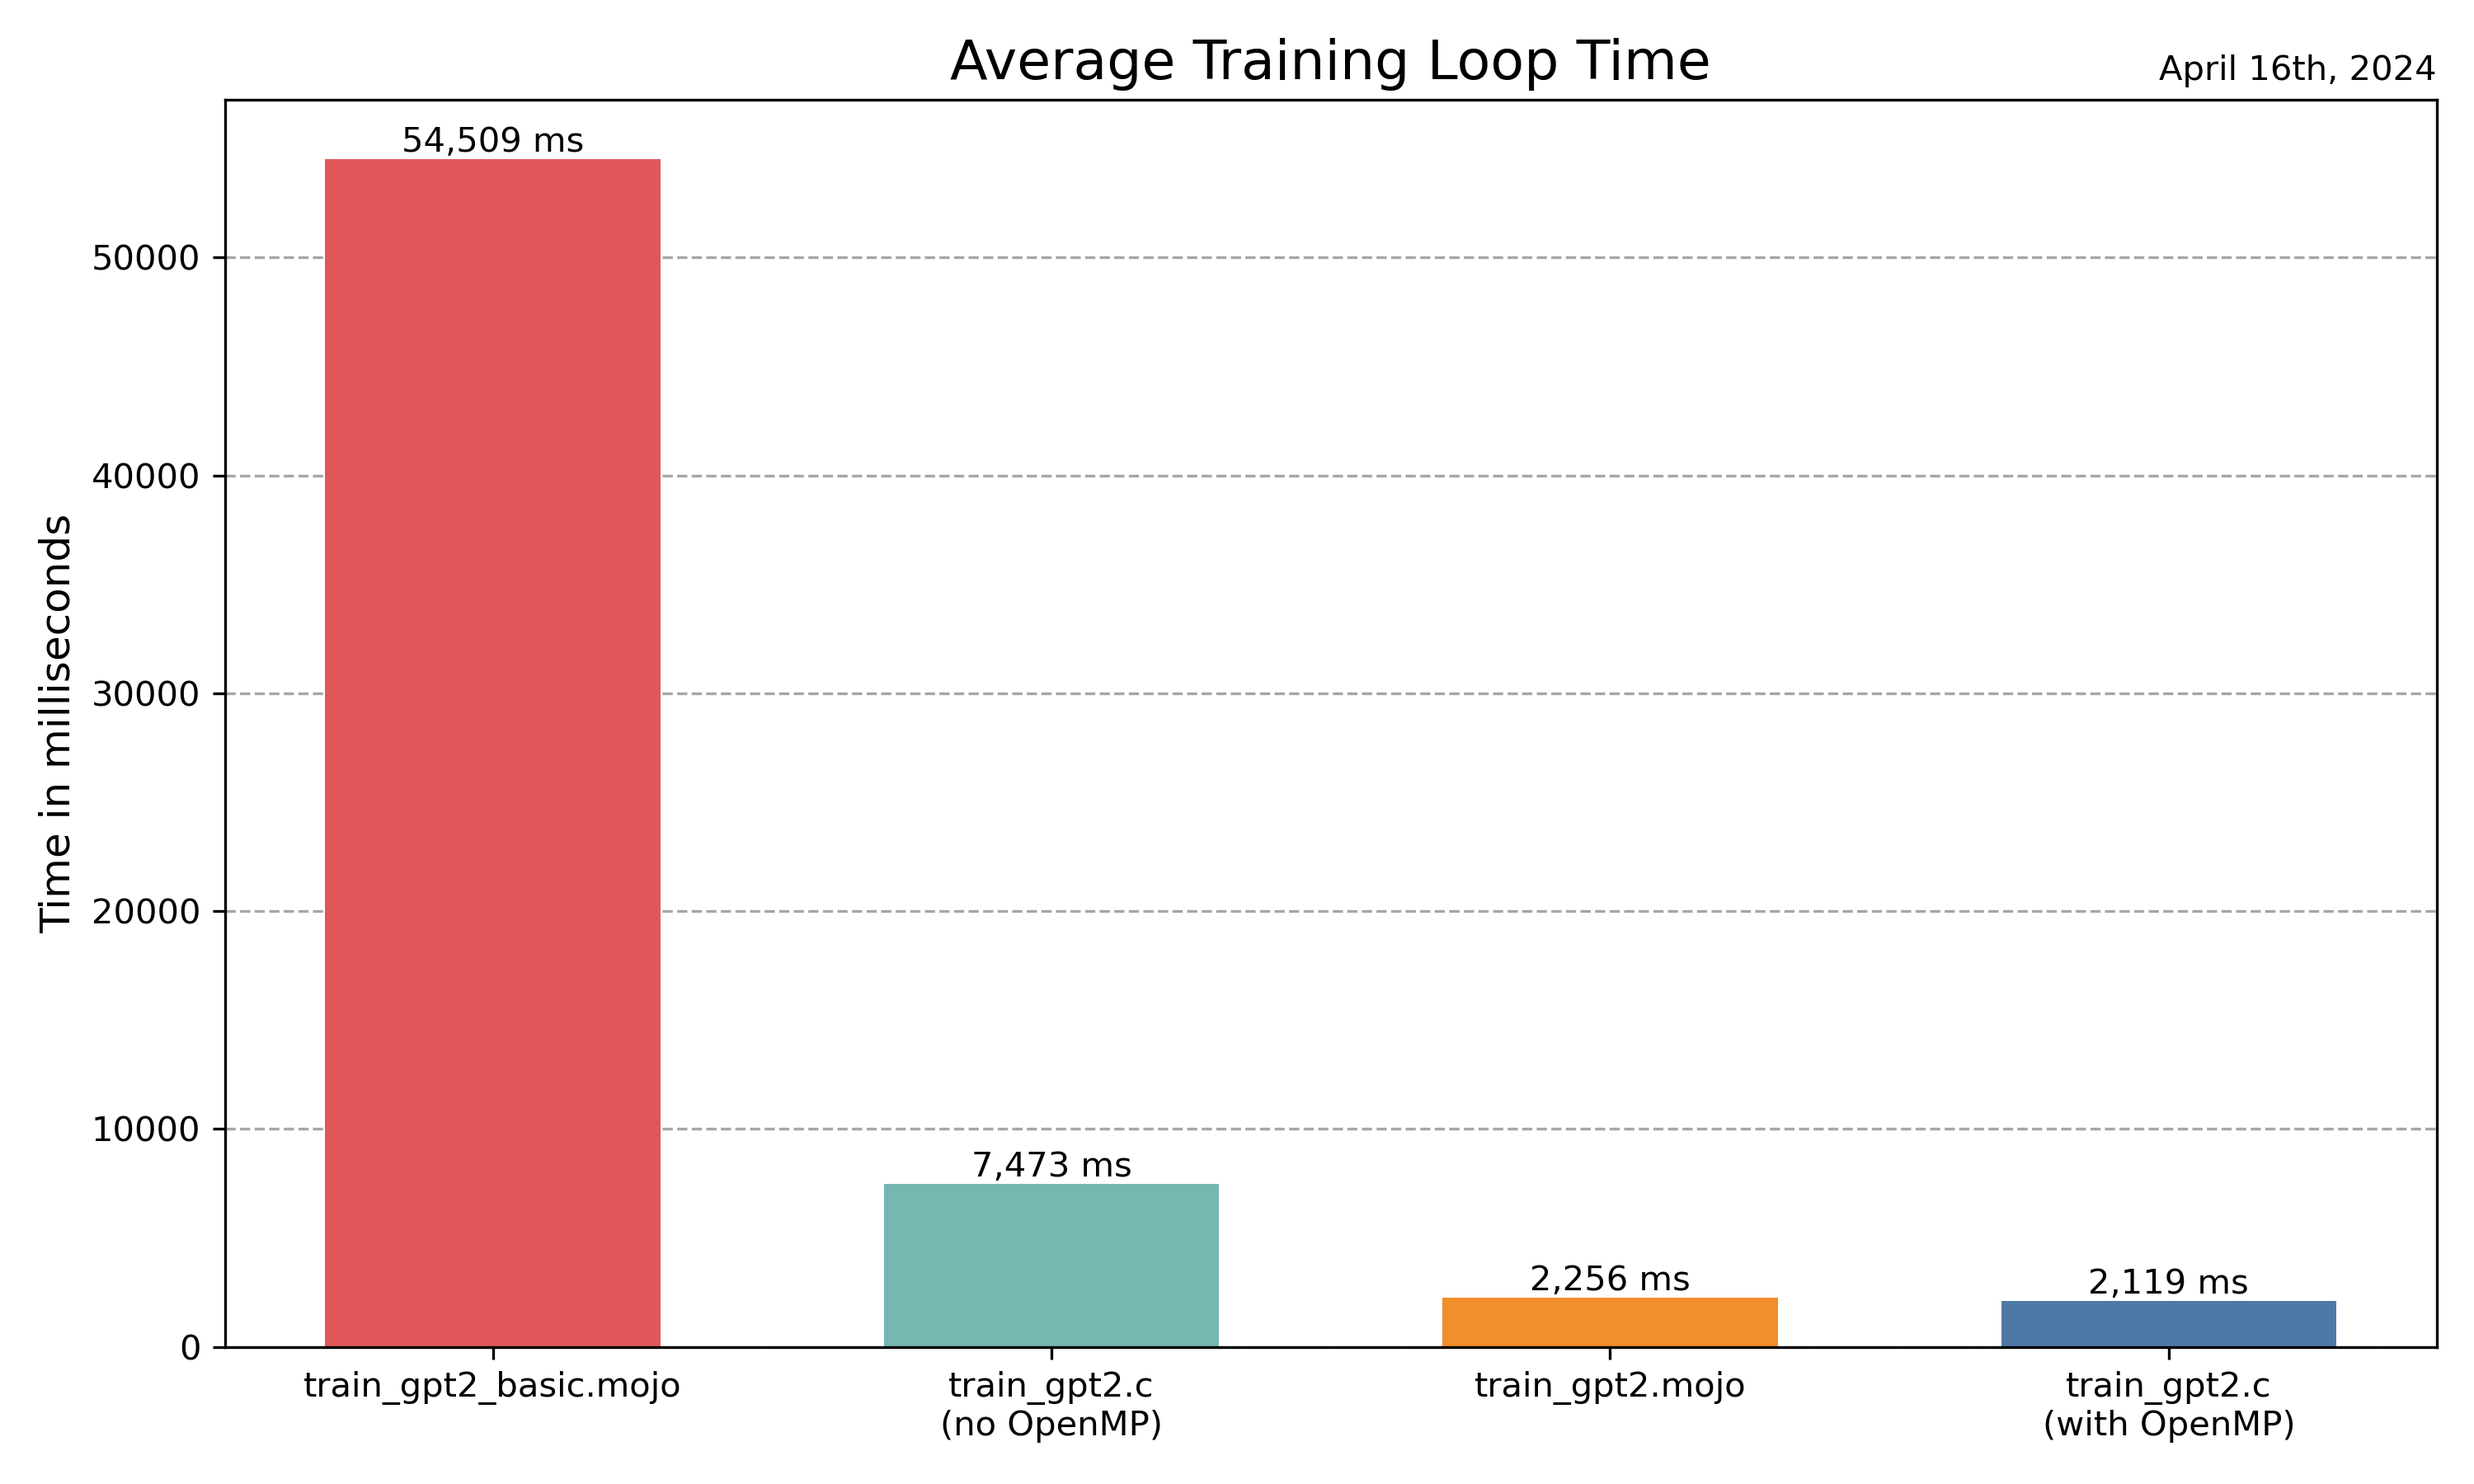
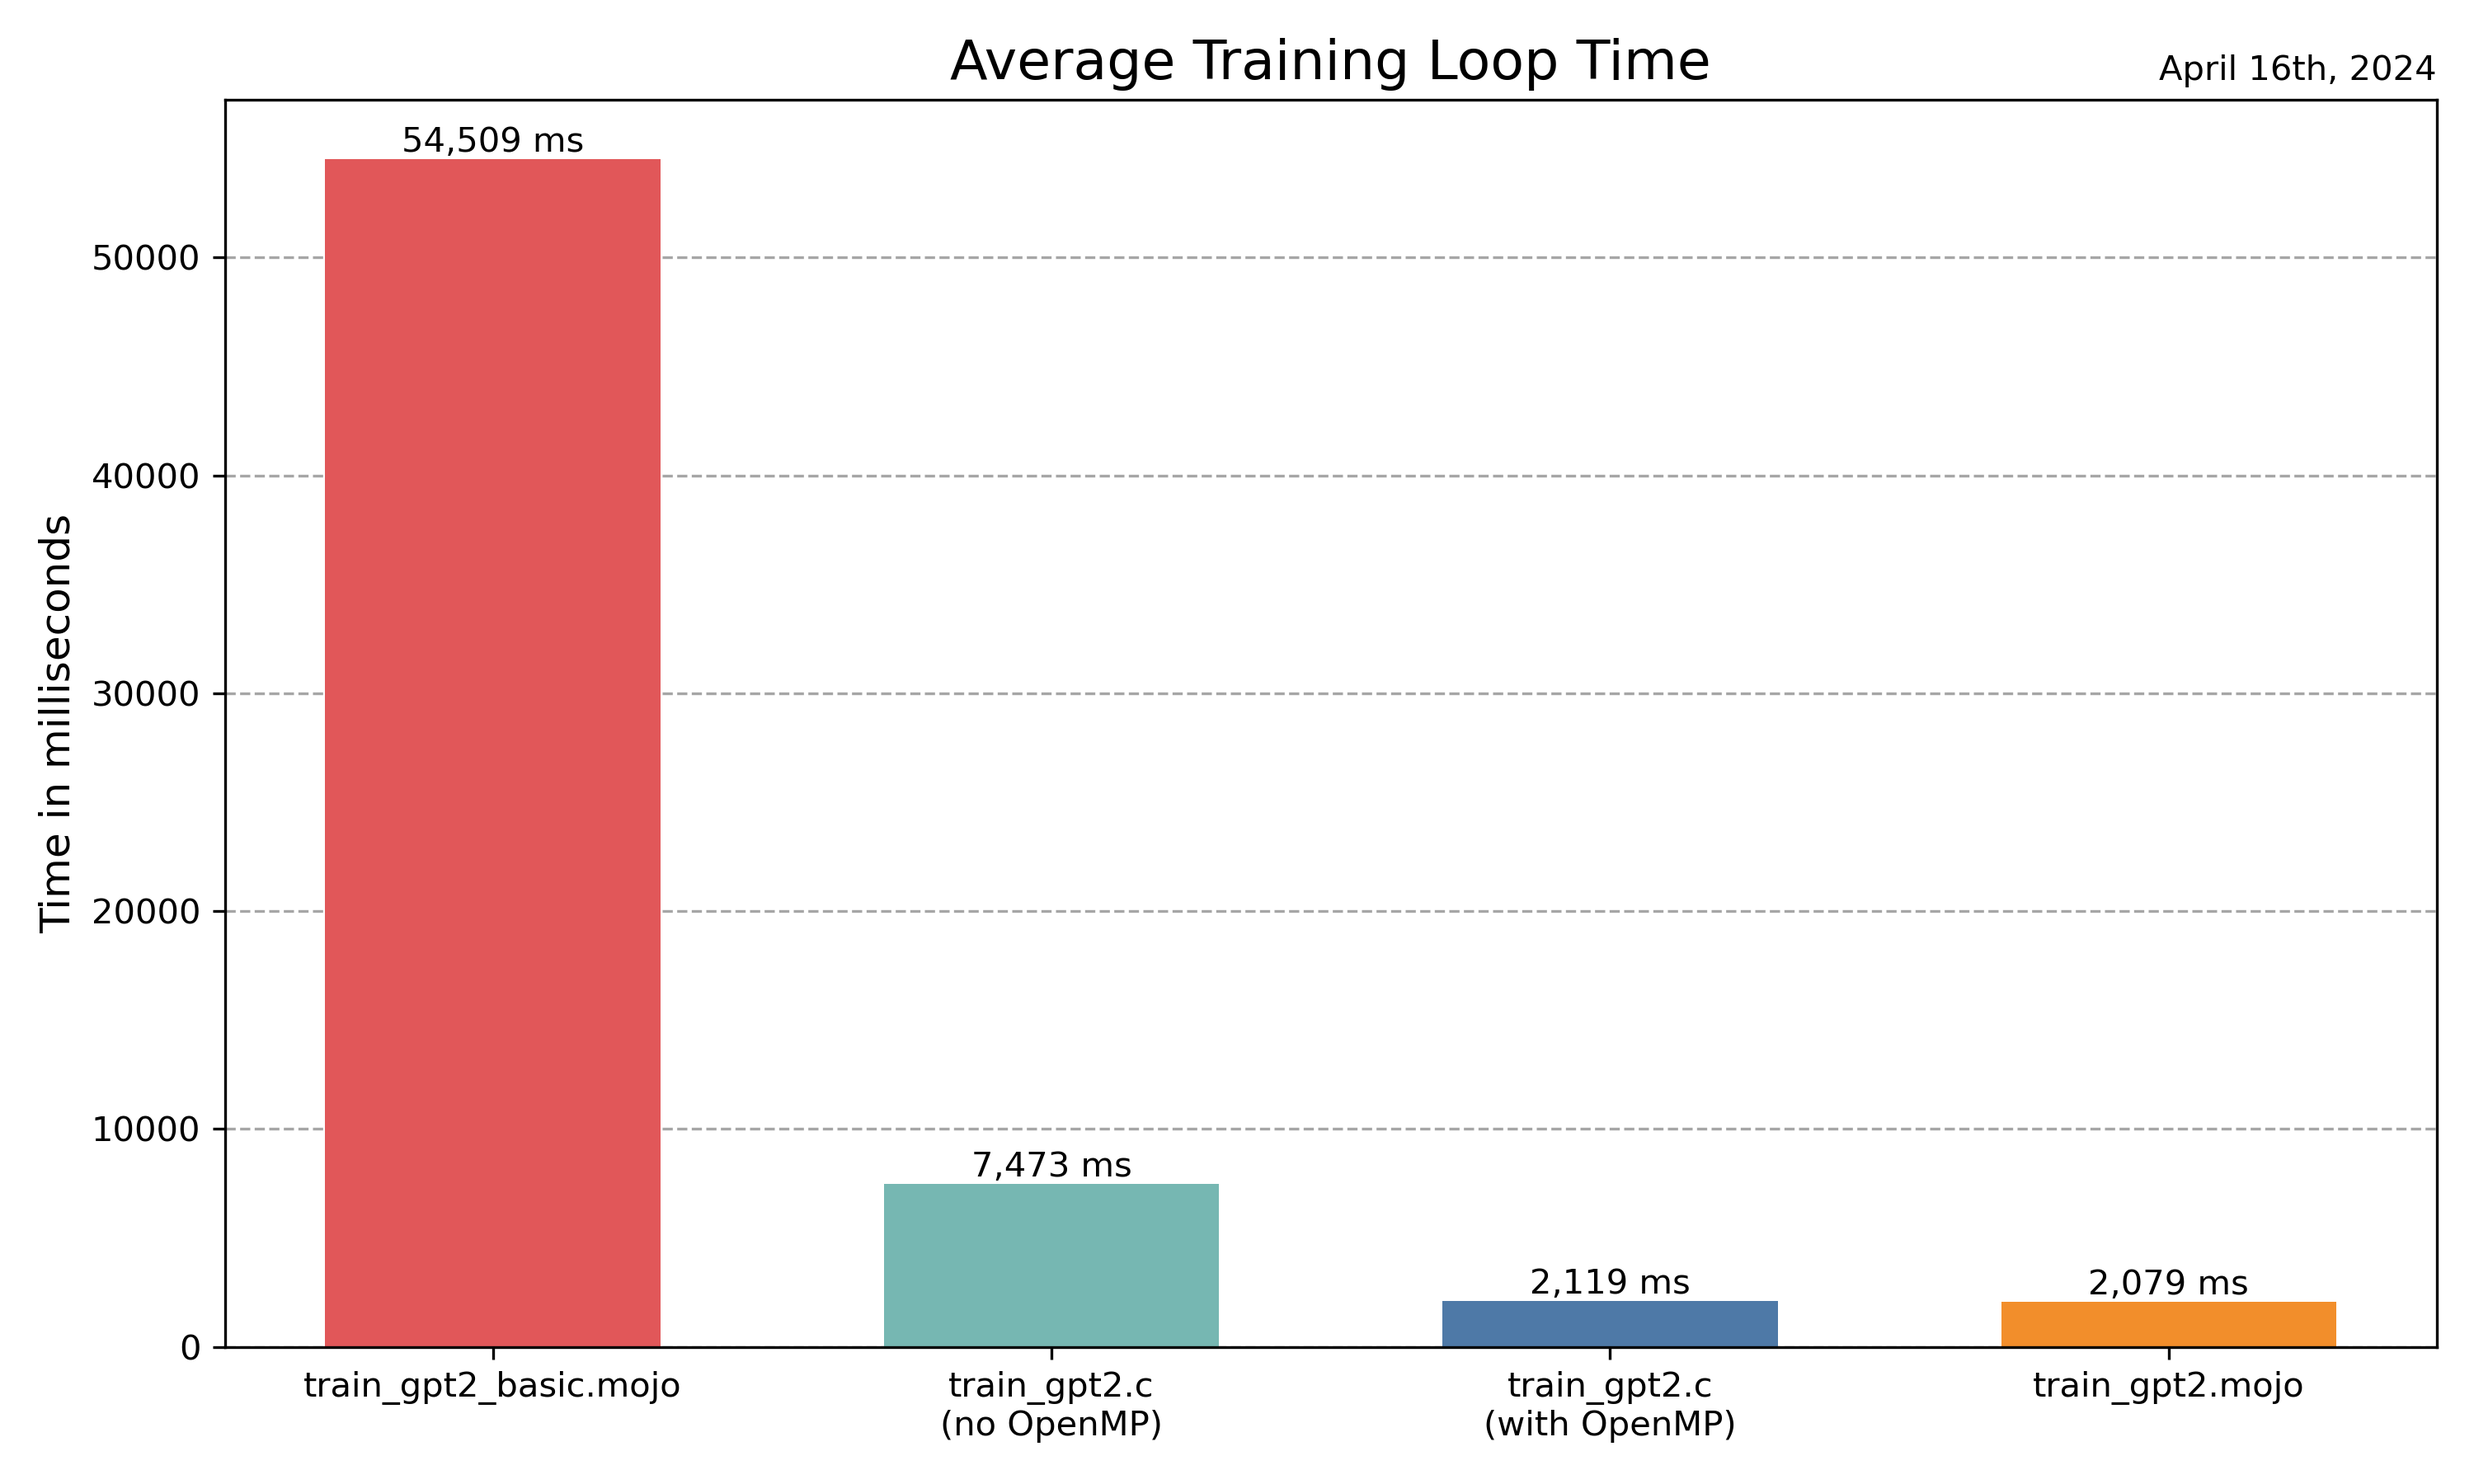
update readme, train_gpt2 optimization

Changed region(s): [[0.558, 0.84, 0.744, 0.9644], [0.806, 0.84, 0.961, 0.9644]]

diff --git a/README.md b/README.md
@@ -55,8 +55,8 @@ Preliminary benchmark results: (M2 MacBook Pro)
 
 | Implementation             | Average Training Loop Time |
 |----------------------------|----------------------------|
+| train_gpt2.mojo             | 2079 ms                    |
 | train_gpt2.c (with OpenMP)  | 2119 ms                    |
-| train_gpt2.mojo             | 2256 ms                    |
 | train_gpt2.c  (no OpenMP)   | 7473 ms                    |
 | train_gpt2_basic.mojo       | 54509 ms                   |
 
@@ -71,6 +71,8 @@ Preliminary benchmark results: (M2 MacBook Pro)
 
 ## Changelog
 
+- 2024.04.18
+  - Further optimizations of train_gpt2.mojo.
 - 2024.04.16
   - Vectorize parameter update
 - 2024.04.15
